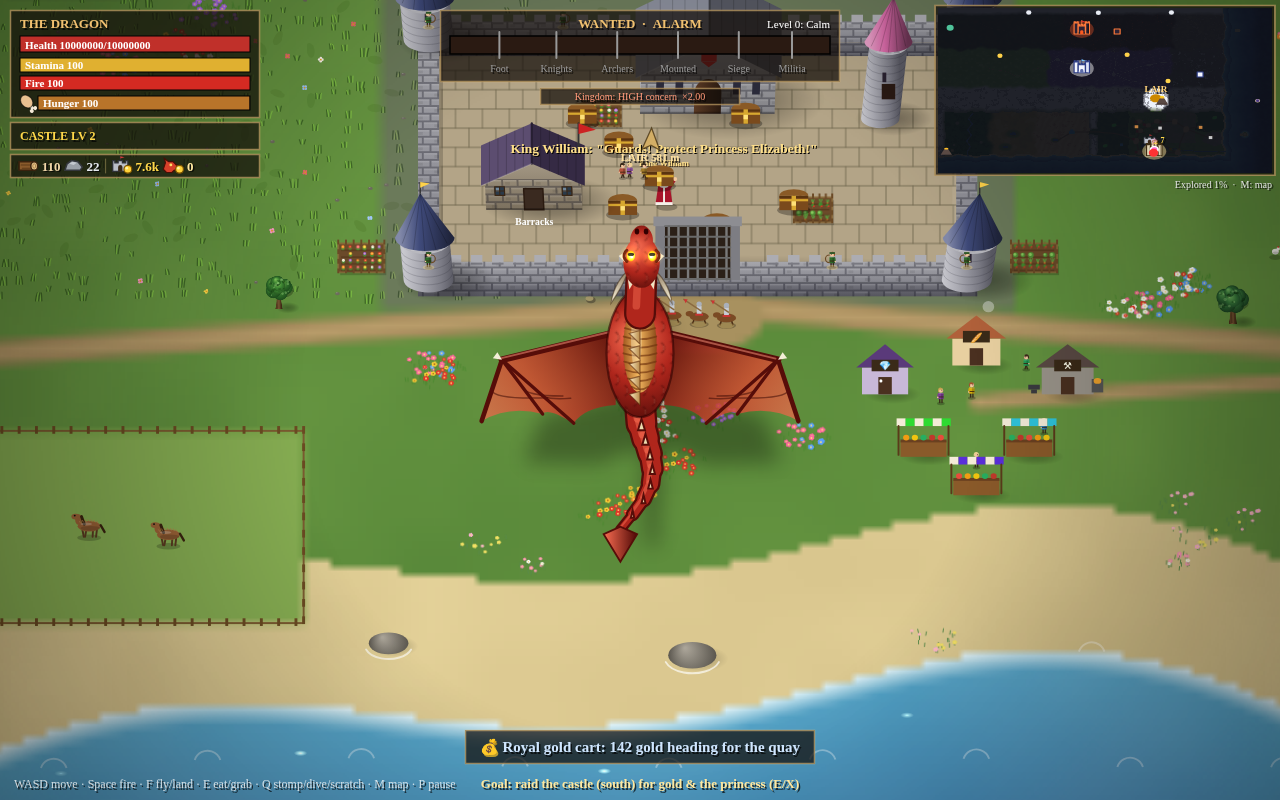
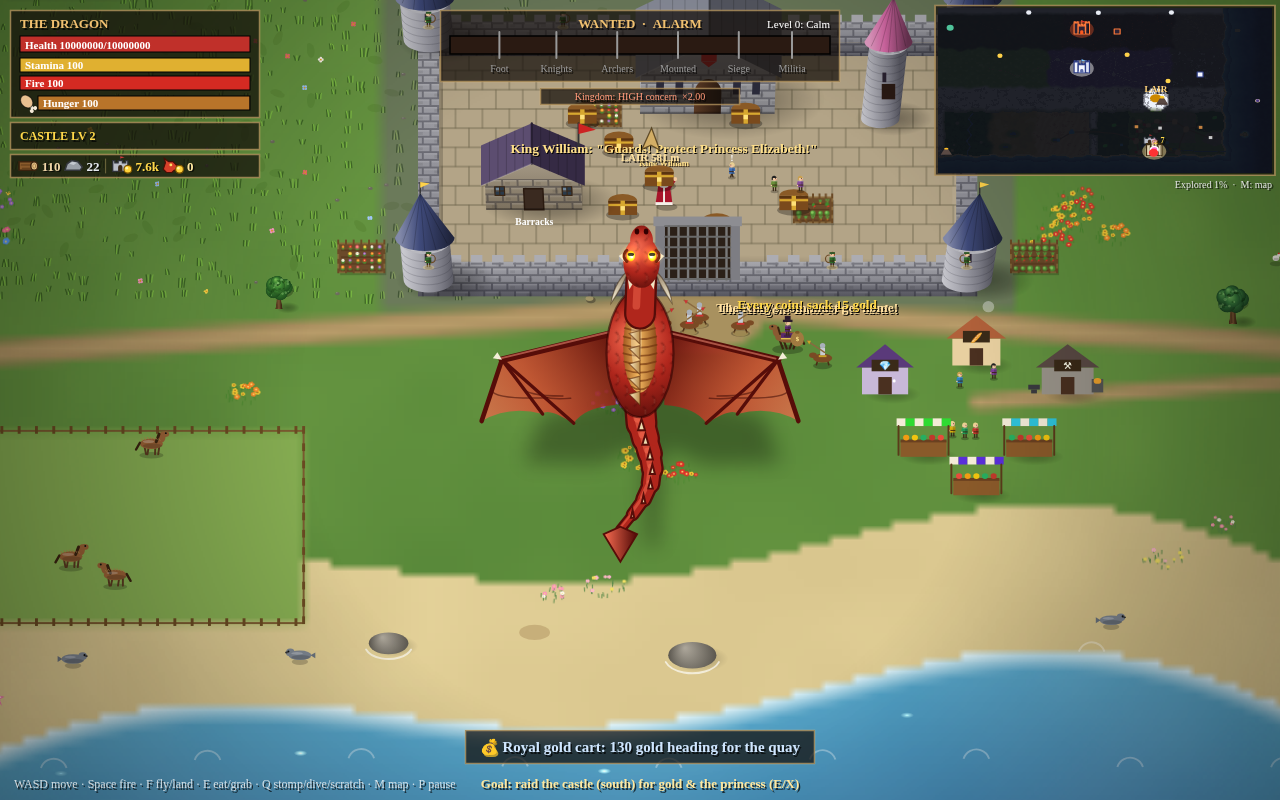
Batch H: faster walk, out-of-combat sprint and fast swim with crocodile tail (185-185g); NPC starvation audit (178)

diff --git a/index.html b/index.html
@@ -12021,6 +12021,42 @@ function as184Continue(){const res=svLoad('dr_save_auto');if(res===true){try{pmC
       const md=i.hard?'Hard':i.easy?'Easy':'Normal';txt(`⟲  Continue  (autosave · castle lvl ${i.lvl} · ${md} · ${svDur(i.playT)})`,W0/2-57,y+21,14,s?'#ffd24a':'#9fe09f','center');
       ctx.fillStyle='rgba(255,255,255,.12)';ctx.fillRect(W0/2+118,y+3,108,24);txt('📂 All saves ▶',W0/2+172,y+20,13,'#ddd','center',false);}
   }catch(e){}finally{ctx.setTransform(DPR,0,0,DPR,0,0);}};}
+// ======================= queue 185-185g: faster walk, out-of-combat SPRINT and FAST SWIM, crocodile tail =======================
+// 185: ground walk 135 -> 182 px/s (+35%); flying (255) unchanged; stride animation 35% faster.
+// 185a-c: on the ground, out of combat (no damage taken or dealt near the dragon for 4 s, not breathing fire / biting / stomping,
+//   no soldier / knight / warrior within 220 px) and walking steadily (stick held, no turn sharper than ~60 deg) for 1.5 s, the walk
+//   ramps over 1.2 s up to a SPRINT of 95% of the BASE flying speed (242 px/s). The cap is the un-boosted DR base 255, never cruise /
+//   dash / boosts, and the final speed is clamped so it can never pass it. Any attack, hit, a hard turn or stopping drops it at once.
+// 185d/e: not needed: base flying (255) stays above the sprint (242), and the out-of-combat flying cruise (up to 1.8x) is unchanged.
+// 185f: swimming (74 px/s, unchanged) uses the same out-of-combat + steady 1.5 s rule to ramp to a FAST SWIM of 80% of base fly (204).
+// 185g: while swimming the dragon sweeps its tail side to side (crocodile style, legs tucked), fast during the fast swim.
+const MV185={walk:1.35,sprintFly:.95,swimFly:.8,steady:1.5,ramp:1.2,calm:4,turn:1.05,near:220,FLY0:DR.airSpeed};
+function mv185Combat(){if(!D||!G)return true;if(D.breath||keys[' ']||GPAD.fire||D.eatT>0||D.stompT>0||(D.scratchT||0)>0)return true;
+  if(G.t-(G.as184Hurt==null?-99:G.as184Hurt)<MV185.calm||G.t-(G.mv185Hit==null?-99:G.mv185Hit)<MV185.calm)return true;
+  for(const u of units){if(u.dead||u.inside||u.type==='animal'||u.type==='villager'||u.type==='sea'||u.type==='bird')continue;
+    if(Math.abs(u.x-D.x)<MV185.near&&Math.abs(u.y-D.y)<MV185.near&&dist(u,D)<MV185.near)return true;}return false;}
+{const _h=hurtUnit;hurtUnit=function(u){if(G&&u&&D&&Math.abs(u.x-D.x)<450&&Math.abs(u.y-D.y)<450)G.mv185Hit=G.t;return _h.apply(this,arguments);};Object.assign(hurtUnit,_h);}
+{const _uc=updCruise;updCruise=function(dt,ix,iy){const m=_uc.apply(this,arguments);try{
+  const S=D.mv185||(D.mv185={t:0,k:0,a:null,ph:0,fast:0});
+  const gw=D.mode!=='air'&&D.alt<.3;if(!gw){S.t=0;S.k=0;S.a=null;S.fast=0;return m;}
+  const mag=Math.hypot(ix,iy);let stop=mag<.5||mv185Combat();
+  if(!stop){const a=Math.atan2(iy,ix);if(S.a!=null&&Math.abs(angDiff(a,S.a))>MV185.turn){stop=true;S.a=a;}else S.a=S.a==null?a:S.a+angDiff(a,S.a)*Math.min(1,2.5*dt);}
+  else if(mag<.5)S.a=null;
+  if(stop){S.t=0;S.k=0;}else{S.t+=dt;if(S.t>MV185.steady)S.k=Math.min(1,S.k+dt/MV185.ramp);}
+  const base=lerp(DR.groundSpeed,DR.airSpeed,D.alt)*(D.swim?.55:1);let f;
+  if(D.swim){const top=MV185.FLY0*MV185.swimFly/base;f=1+(top-1)*S.k;}
+  else{const w=clamp(1-D.alt/.3,0,1),wf=1+(MV185.walk-1)*w,top=Math.max(wf,MV185.FLY0*MV185.sprintFly/base);f=wf+(top-wf)*S.k*w;}
+  f=Math.min(f,MV185.FLY0/base); // never faster than base (un-boosted) flying
+  S.fast=S.k;G.mv185Peak=Math.max(G.mv185Peak||0,base*f);
+  if(mag>0&&!D.swim)D.walkT+=dt*7*(f-1); // stride keeps pace with the speed
+  if(D.swim)S.ph+=dt*(5+7*S.k);
+  return m*f;}catch(e){return m;}};}
+{const _dd=drawDragon;drawDragon=function(){if(!D||!D.swim)return _dd.apply(this,arguments);
+  const S=D.mv185||{ph:G.t*5,k:0},A=12+12*(S.k||0),ph=S.ph||0,L0=line,P0=poly;
+  const off=x=>x<-36?A*Math.sin(ph+(x+36)*.055)*Math.pow((-36-x)/90,1.2):0;
+  line=function(x1,y1,x2,y2,c,w){if(x1<=-36&&x2<-36)return L0(x1,y1+off(x1),x2,y2+off(x2),c,w);return L0.apply(this,arguments);};
+  poly=function(p,c,s){if(p&&p.length&&p[0]<-36){const q=p.slice();for(let i=0;i<q.length;i+=2)q[i+1]+=off(q[i]);return P0(q,c,s);}return P0.apply(this,arguments);};
+  try{return _dd.apply(this,arguments);}finally{line=L0;poly=P0;}};}
 // ======================= queue 187 / 188 / 188a / 188b: castle-level scaling only in HARD (except castles + resources) =======================
 // 188b: on NORMAL and EASY only the castle itself (gate, barracks, walls, its tower archers and castle guards, the king's own
 // Archer/Scorpion towers) and resources (castle gold piles, treasury, ransom, loot) grow with the castle level. Everything else plays

diff --git a/partNR.js b/partNR.js
@@ -4557,6 +4557,42 @@ function as184Continue(){const res=svLoad('dr_save_auto');if(res===true){try{pmC
       const md=i.hard?'Hard':i.easy?'Easy':'Normal';txt(`⟲  Continue  (autosave · castle lvl ${i.lvl} · ${md} · ${svDur(i.playT)})`,W0/2-57,y+21,14,s?'#ffd24a':'#9fe09f','center');
       ctx.fillStyle='rgba(255,255,255,.12)';ctx.fillRect(W0/2+118,y+3,108,24);txt('📂 All saves ▶',W0/2+172,y+20,13,'#ddd','center',false);}
   }catch(e){}finally{ctx.setTransform(DPR,0,0,DPR,0,0);}};}
+// ======================= queue 185-185g: faster walk, out-of-combat SPRINT and FAST SWIM, crocodile tail =======================
+// 185: ground walk 135 -> 182 px/s (+35%); flying (255) unchanged; stride animation 35% faster.
+// 185a-c: on the ground, out of combat (no damage taken or dealt near the dragon for 4 s, not breathing fire / biting / stomping,
+//   no soldier / knight / warrior within 220 px) and walking steadily (stick held, no turn sharper than ~60 deg) for 1.5 s, the walk
+//   ramps over 1.2 s up to a SPRINT of 95% of the BASE flying speed (242 px/s). The cap is the un-boosted DR base 255, never cruise /
+//   dash / boosts, and the final speed is clamped so it can never pass it. Any attack, hit, a hard turn or stopping drops it at once.
+// 185d/e: not needed: base flying (255) stays above the sprint (242), and the out-of-combat flying cruise (up to 1.8x) is unchanged.
+// 185f: swimming (74 px/s, unchanged) uses the same out-of-combat + steady 1.5 s rule to ramp to a FAST SWIM of 80% of base fly (204).
+// 185g: while swimming the dragon sweeps its tail side to side (crocodile style, legs tucked), fast during the fast swim.
+const MV185={walk:1.35,sprintFly:.95,swimFly:.8,steady:1.5,ramp:1.2,calm:4,turn:1.05,near:220,FLY0:DR.airSpeed};
+function mv185Combat(){if(!D||!G)return true;if(D.breath||keys[' ']||GPAD.fire||D.eatT>0||D.stompT>0||(D.scratchT||0)>0)return true;
+  if(G.t-(G.as184Hurt==null?-99:G.as184Hurt)<MV185.calm||G.t-(G.mv185Hit==null?-99:G.mv185Hit)<MV185.calm)return true;
+  for(const u of units){if(u.dead||u.inside||u.type==='animal'||u.type==='villager'||u.type==='sea'||u.type==='bird')continue;
+    if(Math.abs(u.x-D.x)<MV185.near&&Math.abs(u.y-D.y)<MV185.near&&dist(u,D)<MV185.near)return true;}return false;}
+{const _h=hurtUnit;hurtUnit=function(u){if(G&&u&&D&&Math.abs(u.x-D.x)<450&&Math.abs(u.y-D.y)<450)G.mv185Hit=G.t;return _h.apply(this,arguments);};Object.assign(hurtUnit,_h);}
+{const _uc=updCruise;updCruise=function(dt,ix,iy){const m=_uc.apply(this,arguments);try{
+  const S=D.mv185||(D.mv185={t:0,k:0,a:null,ph:0,fast:0});
+  const gw=D.mode!=='air'&&D.alt<.3;if(!gw){S.t=0;S.k=0;S.a=null;S.fast=0;return m;}
+  const mag=Math.hypot(ix,iy);let stop=mag<.5||mv185Combat();
+  if(!stop){const a=Math.atan2(iy,ix);if(S.a!=null&&Math.abs(angDiff(a,S.a))>MV185.turn){stop=true;S.a=a;}else S.a=S.a==null?a:S.a+angDiff(a,S.a)*Math.min(1,2.5*dt);}
+  else if(mag<.5)S.a=null;
+  if(stop){S.t=0;S.k=0;}else{S.t+=dt;if(S.t>MV185.steady)S.k=Math.min(1,S.k+dt/MV185.ramp);}
+  const base=lerp(DR.groundSpeed,DR.airSpeed,D.alt)*(D.swim?.55:1);let f;
+  if(D.swim){const top=MV185.FLY0*MV185.swimFly/base;f=1+(top-1)*S.k;}
+  else{const w=clamp(1-D.alt/.3,0,1),wf=1+(MV185.walk-1)*w,top=Math.max(wf,MV185.FLY0*MV185.sprintFly/base);f=wf+(top-wf)*S.k*w;}
+  f=Math.min(f,MV185.FLY0/base); // never faster than base (un-boosted) flying
+  S.fast=S.k;G.mv185Peak=Math.max(G.mv185Peak||0,base*f);
+  if(mag>0&&!D.swim)D.walkT+=dt*7*(f-1); // stride keeps pace with the speed
+  if(D.swim)S.ph+=dt*(5+7*S.k);
+  return m*f;}catch(e){return m;}};}
+{const _dd=drawDragon;drawDragon=function(){if(!D||!D.swim)return _dd.apply(this,arguments);
+  const S=D.mv185||{ph:G.t*5,k:0},A=12+12*(S.k||0),ph=S.ph||0,L0=line,P0=poly;
+  const off=x=>x<-36?A*Math.sin(ph+(x+36)*.055)*Math.pow((-36-x)/90,1.2):0;
+  line=function(x1,y1,x2,y2,c,w){if(x1<=-36&&x2<-36)return L0(x1,y1+off(x1),x2,y2+off(x2),c,w);return L0.apply(this,arguments);};
+  poly=function(p,c,s){if(p&&p.length&&p[0]<-36){const q=p.slice();for(let i=0;i<q.length;i+=2)q[i+1]+=off(q[i]);return P0(q,c,s);}return P0.apply(this,arguments);};
+  try{return _dd.apply(this,arguments);}finally{line=L0;poly=P0;}};}
 // ======================= queue 187 / 188 / 188a / 188b: castle-level scaling only in HARD (except castles + resources) =======================
 // 188b: on NORMAL and EASY only the castle itself (gate, barracks, walls, its tower archers and castle guards, the king's own
 // Archer/Scorpion towers) and resources (castle gold piles, treasury, ransom, loot) grow with the castle level. Everything else plays

diff --git a/README.md b/README.md
@@ -1296,3 +1296,20 @@ On an iPhone held upright, the main menu used to start under the notch, so its t
 
 ![Main menu on iPhone portrait](screenshots/q198_menu_iphone_portrait.png)
 ![Main menu on iPhone landscape (unchanged)](screenshots/q198_menu_iphone_landscape.png)
+
+## Batch H: faster walking, sprinting and fast swimming (185-185g); NPC hunger check (178)
+
+**Walk / sprint (185, 185a-c)**
+- Walking on the ground is now 35% faster (135 -> 182 px/s).
+- Sprint: walk steadily for 1.5 s while out of combat and the dragon ramps up over 1.2 s to a sprint of 242 px/s (95% of flying speed). Running never beats flying (hard cap 255).
+- The sprint stops immediately when you breathe fire, bite or stomp, get hurt (and stays off for 4 s), an enemy comes within 220 px, you turn sharply (more than ~60°) or stop.
+- 185d/185e (flying stays faster than sprinting) needed no change: base flight (255) and the existing out-of-combat flight cruise (up to x1.8) are already faster than the sprint.
+
+**Fast swim with crocodile tail (185f, 185g)**
+- Swimming steadily out of combat now ramps from 74 to 204 px/s, with the same stop rules as the sprint.
+- While swimming the tail sweeps side to side like a crocodile's, wider and faster as the dragon speeds up.
+
+**NPC starvation (178)**
+- Checked the whole game: only the player dragon has hunger and can starve. NPC "belly" only changes what they want to do (hunt, graze) and never costs health, so no NPC can starve. No code change was needed; a test (t178) now guards this.
+
+**Test note**: the Viking "ship returns to its post" check (t156) failed now and then, on the old build too. A wandering giant octopus or squid sometimes parked its no-go circle over the ship's route home, and the ship waits outside such circles by design. The test now moves the sea bosses out of the way while it checks the trip home. The game itself is unchanged.
